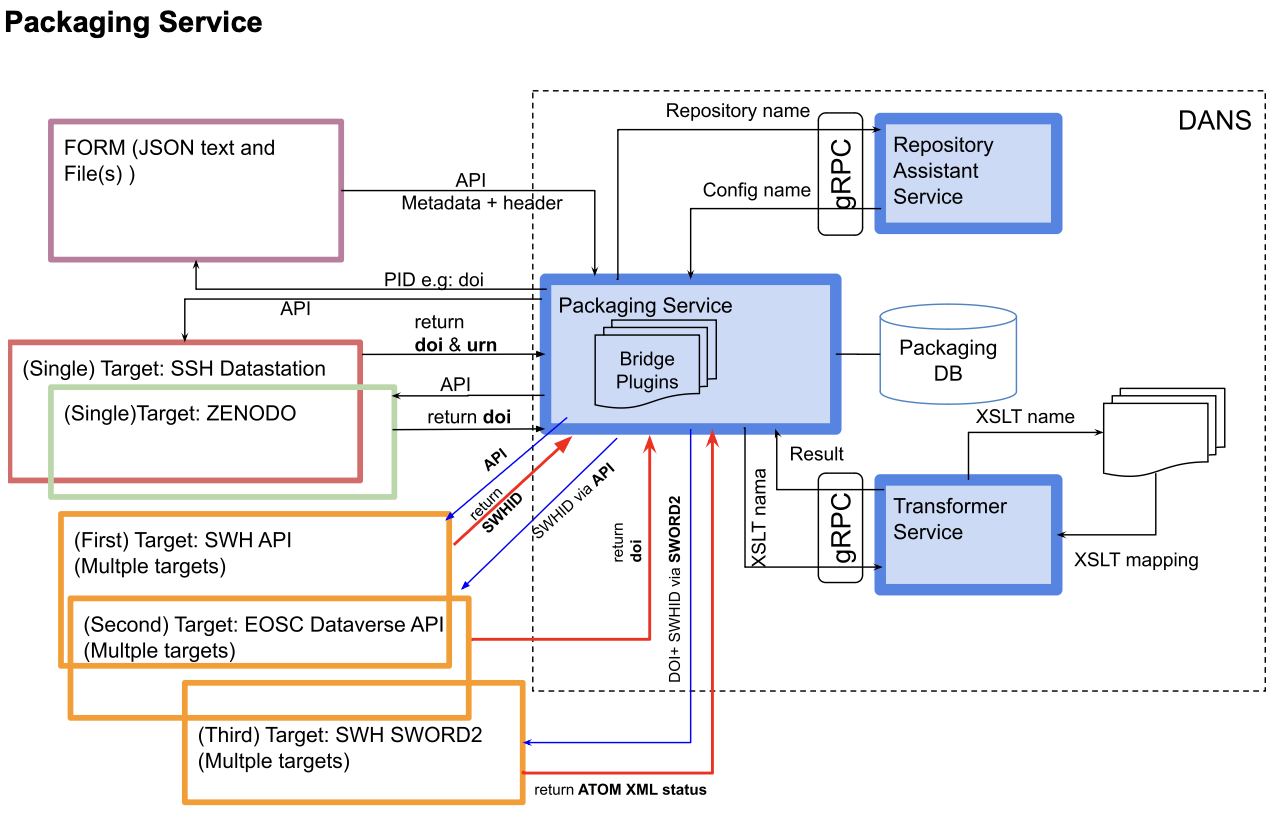
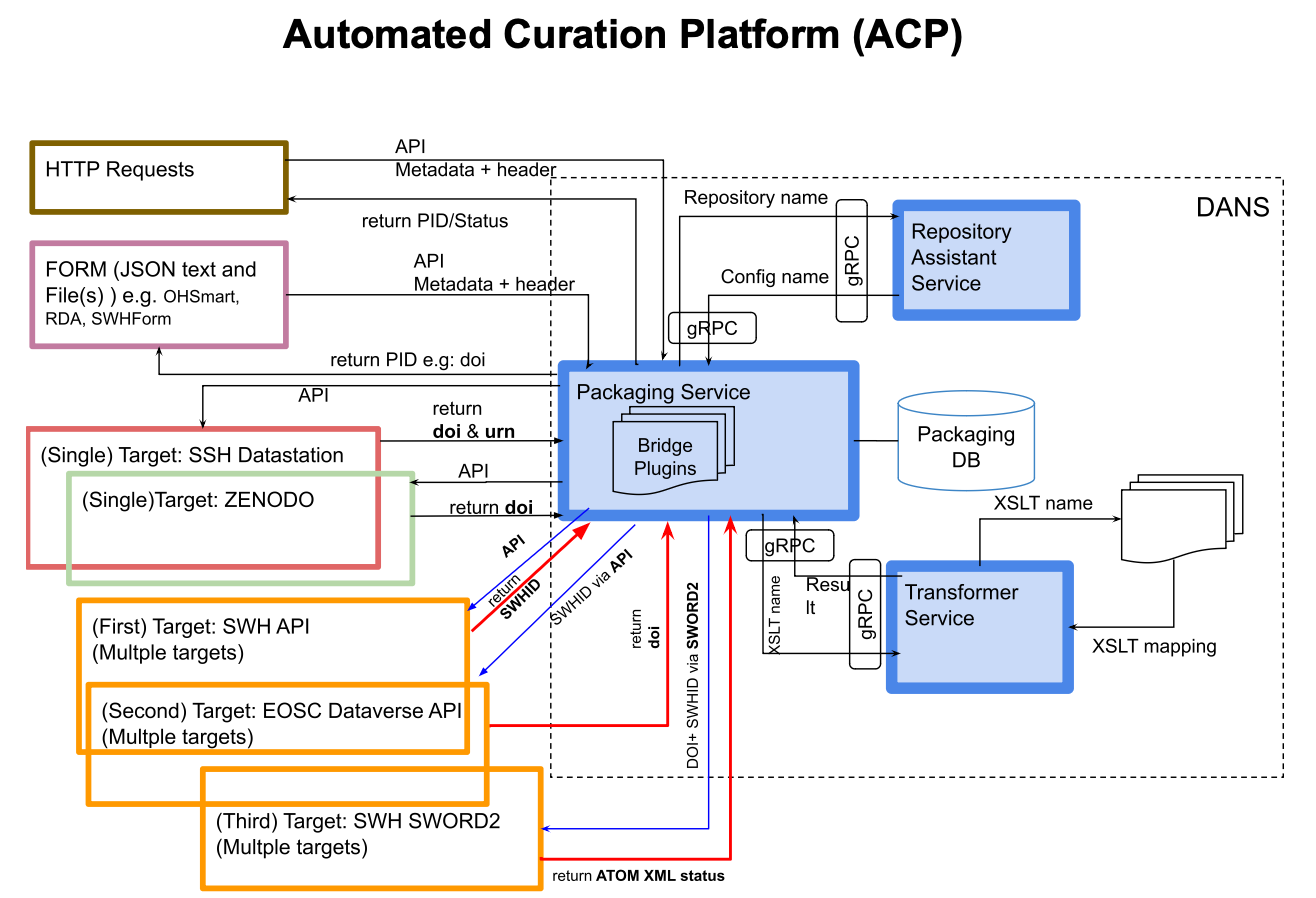
Update README.md

diff --git a/README.md b/README.md
@@ -1,13 +1,21 @@
-# Packaging Service
-At DANS we have developed a packaging service which creates deposit packages based on user input that consist of metadata, files and repository targets. 
+# Automated Curation Platform (ACP)
+At DANS, we have developed the Automated Curation Platform (ACP) — a comprehensive service that generates curated deposit packages tailored to user specifications. Each package comprises metadata, files, and repository-specific configurations, carefully customized to meet the precise requirements of the designated repository target.
 
-The Packaging Service is designed to streamline and simplify the creation of deposit packages which harmonizes user input, repository configurations, bridge modules, and transformers to effortlessly create deposit packages tailored to the specific needs of each repository target. 
+The ACP was designed to streamline and automate the entire process of deposit package creation, addressing the unique needs of diverse repositories by organizing, filtering, and selecting data accordingly. Leveraging advanced algorithms, machine learning techniques, and predefined rule sets, ACP performs complex curation tasks autonomously, greatly reducing or even eliminating the need for manual input. These automated tasks encompass data gathering, tagging, sorting, and content analysis, which collectively improve efficiency and accuracy.
+
+The ACP core function is to “curate” content by identifying high-quality, relevant items, filtering out unnecessary or low-value data, and arranging information in ways that align with the platform's overall objectives. By integrating critical elements like user input, repository configurations, bridge modules, and transformers, ACP seamlessly streamlines the process of packaging content to satisfy the specific requirements of each repository target, ensuring a consistent and user-friendly experience.
 
 ![Data Flow diagram](./resources/images/ps-flow.png)
 
-The packaging process is orchestrated based on the specific repository target(s) specified by the user. The packaging service dynamically retrieves the requisite configuration from the given configuration’s name in the repository assistant service which encompasses essential details such as the repository URL, the bridge module, and transformer(s).
+The curation process is dynamically adapted to each repository target as specified by the user. ACP automatically retrieves configuration details from the repository assistant service, based on the provided configuration name. This configuration is essential, containing details like the repository URL, bridge module, and transformers, all of which empower ACP to seamlessly accommodate varying repository standards.
 
-The repository URL within the configuration file serves as the link to the designated storage location, allowing seamless interaction with the repository. The bridge module, a pivotal component, plays a key role in crafting the deposit package in the desired target format, exemplified by formats like SWORD. This adaptable module ensures that the packaged content aligns seamlessly with the requirements of the chosen repository. The transformer(s) are responsible for facilitating the translation of metadata to match the specifications of the destination repository. This ensures that the deposited content is not only packaged appropriately but also conforms to the metadata requirements of the target repository
+Repository URL: This URL acts as a direct link to the designated storage location within the repository, enabling seamless data exchange and interaction.
+
+Bridge Module: Serving as a pivotal component, the bridge module is responsible for structuring the deposit package in the desired target format (e.g., SWORD). This module is adaptable, ensuring that curated content adheres to the specific formatting requirements of each chosen repository.
+
+Transformers: These components play a vital role in translating metadata to fit the standards of the destination repository, guaranteeing that deposited content is both accurately packaged and fully compliant with the repository’s metadata standards.
+
+By centralizing and automating these crucial components, ACP provides an efficient, scalable, and adaptable solution for deposit package generation. This design makes it significantly easier for users to manage, curate, and deliver content that meets precise repository standards, promoting streamlined workflows and enhancing the quality of digital content management.
 
  ## Database Schema
 ![Database Schema](./resources/images/db-schema.png)
